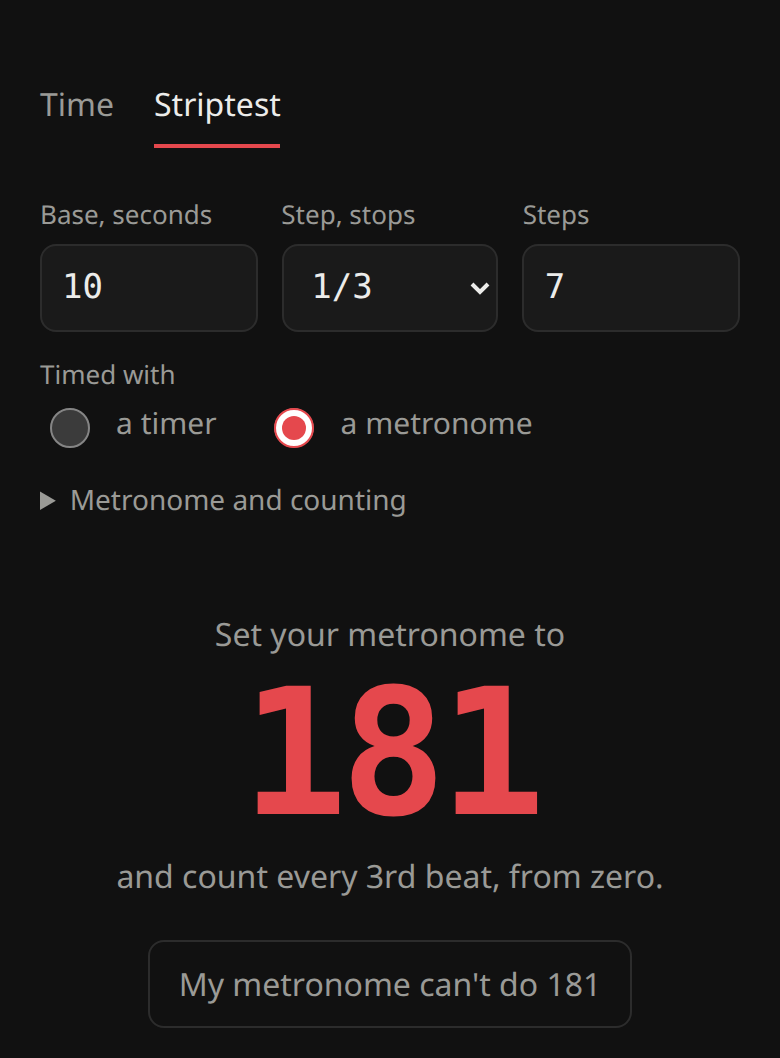
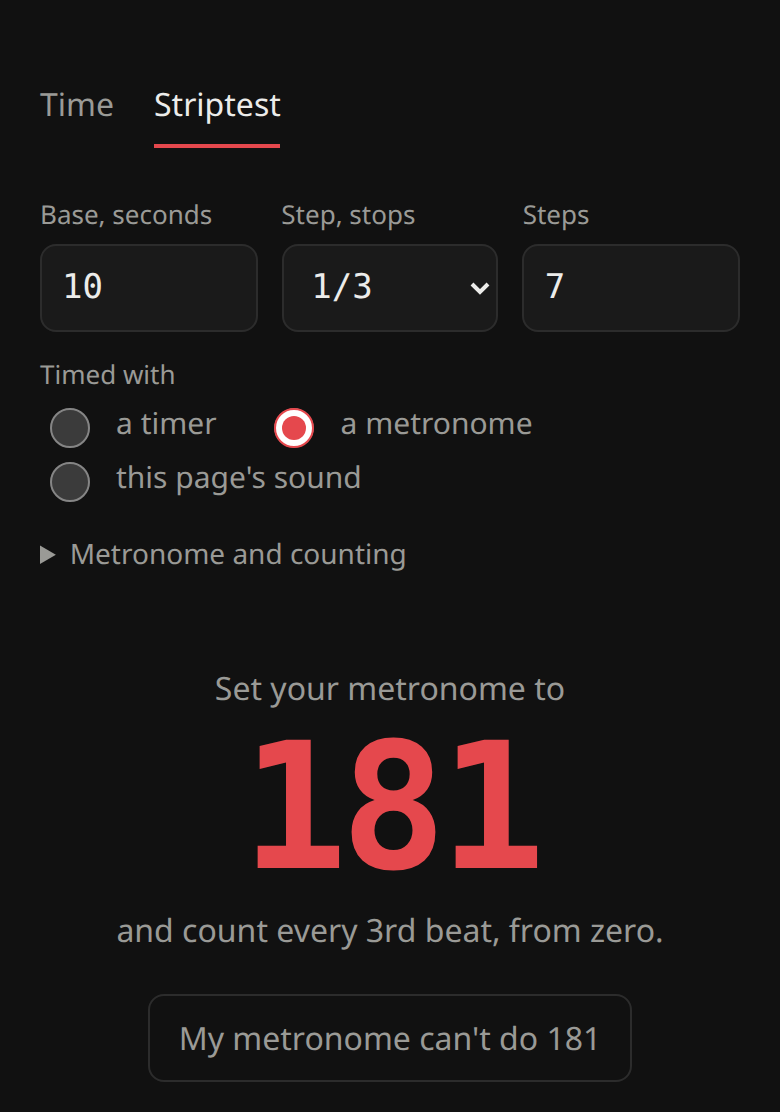
README for the new ways to time

diff --git a/README.md b/README.md
@@ -1,5 +1,5 @@
 # striptest
-A tool for planning f/stop teststrips in the darkroom, and for finding the optimal tempo settings for timing them with a physical metronome.
+A tool for planning f/stop teststrips in the darkroom, and for timing them: with an ordinary timer, with a physical metronome at the optimal tempo, or by the sound of the page itself.
 
 **Use it right here: https://binflush.github.io/striptest/**
 ## Overview
@@ -7,11 +7,11 @@ A tool for planning f/stop teststrips in the darkroom, and for finding the optim
 
 It started out as a Python script that I wrote for my own use, to be run on a laptop while planning a printing session. That works fine, but it is not very portable, and the computer I actually carry around is a phone. So the whole thing has been reimplemented as a website, which does the same calculation directly in your browser. There is nothing to install, it fits on a phone screen, and nothing you type is sent anywhere.
 
-The Python script is still here and still works. It is in fact the reference: the website is tested against it on thousands of random settings, so the two always agree on the tempo and the counts. The website has also grown a few things the script never had. It plans the teststrip no matter how it is going to be timed: with an ordinary timer it simply gives the seconds for every patch, and the metronome is what it suggests to those who don't have one. It also has an easy way to tell it which tempos your metronome lacks, and a simulated teststrip that shows roughly what the patches are going to do to the tones. All of it is described below.
+The Python script is still here and still works. It is in fact the reference: the website is tested against it on thousands of random settings, so the two always agree on the tempo and the counts. The website has also grown a few things the script never had. It plans the teststrip no matter how it is going to be timed: with an ordinary timer it simply gives the seconds for every patch, with a metronome it finds the tempo, and it can also do the timing itself, by sound, so that neither is needed. It has a darkroom view, which is red on black and large enough to read at the enlarger, an easy way to tell it which tempos your metronome lacks, and a simulated teststrip that shows roughly what the patches are going to do to the tones. Opened once while online it works in airplane mode after that, and it can be added to a phone's home screen like any other app. All of it is described below.
 
 ## Quickstart
 ### On the website
-Open https://binflush.github.io/striptest/, type in your base time, and pick the stepsize and the number of steps. The table then gives the seconds for every patch, to be used with a timer. Choose **a metronome** under **Timed with**, and you get a big red number instead, which is the tempo for your metronome, and a table that tells you what to count to. That is all there is to it. The section **The website** further down goes through the rest.
+Open https://binflush.github.io/striptest/, type in your base time, and pick the stepsize and the number of steps. The table then gives the seconds for every patch, to be used with a timer. Choose **a metronome** under **Timed with**, and you get a big red number instead, which is the tempo for your metronome, and a table that tells you what to count to. Choose **this page's sound** and it will simply sound every moment you have to act on. That is all there is to it. The section **The website** further down goes through the rest.
 
 ### With the Python script
 Ensure you have python and numpy installed, download the file `striptest.py`, open a terminal, navigate to where the file is located and run
@@ -72,7 +72,7 @@ Let's say we have a fresh negative in the enlarger, and our best guess is that i
 Until we say otherwise, the website takes the teststrip to be **Timed with** a timer. The table has one row for each patch. **Seconds** is the exposure the patch should end up with, and **Add** is how to get there when the patches are covered one by one: the whole strip first gets 5.0 seconds, then we cover the first patch and give the rest 1.3 seconds more, cover the next one and give the rest another 1.6, and so on. If we would rather expose every patch on its own, each simply gets what it says under **Seconds**. The times are rounded to tenths of a second, which is about what a timer can be set to.
 
 ### Without a timer
-With a timer that is all there is to it. Without one these times are hopeless, since nobody can count to 1.3 seconds, and this is where the metronome comes in. The line under the settings has already been hinting at it. Under **Timed with** we choose **a metronome**, which the website remembers until we choose something else:
+With a timer that is all there is to it. Without one these times are hopeless, since nobody can count to 1.3 seconds, and something has to keep time for us. There are two answers under **Timed with**: a metronome, which is what the rest of this walkthrough uses, or the page's own sound, which is further down under **At the enlarger**. The line under the settings has already been hinting at the first. We choose **a metronome**, which the website remembers until we choose something else:
 
 <p align="center"><img src="figures/web-first-strip.png" width="300" align="top" alt="The top of the website, now timed with a metronome: tempo 181, counting every 3rd beat"> <img src="figures/web-first-strip-table.png" width="300" align="top" alt="The table underneath: the count for each patch, with a strip of tones under every row"></p>
 
@@ -128,6 +128,17 @@ So we go up to filter 3, and expect the right exposure to be somewhat above 16 s
 We set the metronome to 194 and count every beat. The whole strip first gets 58 beats. Then we cover the first patch and give the rest 7 more beats, starting from zero again, then 8, 9 and 10. This is exactly what `python striptest.py -b 16 -n 5 -s 6 -p -1 -c -d 1` tells us to do.
 
 If the metronome has another range than 40 to 208 bpm, this is also the place to say so, under **Slowest, bpm** and **Fastest, bpm**.
+
+### At the enlarger
+Everything so far happens with the lights on. When they go out, the phone is the wrong shape entirely: a white page is a fog risk, the browser's bars are in the way, and the screen turns itself off halfway through a strip. The button under the table, **Darkroom view**, deals with all three. It fills the screen with the plan in large red type on black, asks the phone to stay awake, and shows nothing that can be tapped by mistake. Close, or Escape, brings the page back.
+
+Red only is safer than white, but it is not safe, and the website says so too. The screen is still a light source, and Multigrade paper is most sensitive to exactly the green and blue that a red-only screen leaves out — which is the point, but a bright phone held over the paper will still fog it. Turn the brightness right down, keep the phone away from the easel, and test your own phone before trusting it: leave a scrap of paper face up beside it for five minutes and develop that. It is also worth turning on airplane mode or Do Not Disturb first, because a notification lights the whole screen at full brightness, and that is a fogged sheet.
+
+The third choice under **Timed with**, **this page's sound**, is for when there is neither a timer nor a metronome to hand. The table then simply gives the seconds each patch ends up with, and the darkroom view offers a Start button. Pressing it gives a count-in of about four seconds, and after that a steady tone says the exposure is running. Under it a second tone climbs, and lands an octave higher exactly on each moment you have to act on, where a short accent falls: the first is the lamp on, then one for each patch to cover, and the last is the lamp off. Then silence, which is how you know it is over. Because the pitch is always climbing towards the next one, a mark never arrives unannounced, and it arrives just as decisively whether the gap was one second or ten.
+
+Stopping a run early needs a press and hold on the button, not a tap. A single touch does nothing at all, so that a hand feeling around in the dark cannot quietly end an exposure. If the phone rings, or anything else takes the page away mid-run, the sound stops and the view says so: that strip is spoiled, and better to know it.
+
+One last thing worth doing before a printing session: add the page to the home screen, from Share → Add to Home Screen on an iPhone, or the browser menu on Android. It then opens without the browser's bars, which on an iPhone is the only way to be rid of them, and it works with no network at all once it has been opened online once.
 
 ## The Python script
 
@@ -290,7 +301,9 @@ If the python script was responsible for timing during exposure, that would be a
 
 Software of this sorts would also need some way to reliably turn off any lights (screen, backlight keyboard, power switch, etc...) during exposure, which is a nontrivial task. Arduino-kits or commercial f-stop timers are better suited for this.
 
-The same goes for the website. It can plan a teststrip for a timer, but it purposely has neither a timer nor a metronome built in. If a timer is what you are after, something like [GoTimer's enlarger timer](https://gotimer.org/photography/enlarger-timer) is a better fit.
+The website has since gone at it from the other side. It can time a run itself, by sound, but that is not a metronome: there is no click track, no tempo, and nothing to count. It just sounds the moments you have to act on, and the pitch climbing into each one is what makes them easy to hit. It is a different answer to the same problem, for when there is neither a timer nor a metronome to hand.
+
+The tempo search is still what this whole thing is about, and it is still the only way to get an arbitrary interval out of a real metronome, which remains my own way of working. And if what you want is a proper f-stop timer, something like [GoTimer's enlarger timer](https://gotimer.org/photography/enlarger-timer) is still a better fit than either.
 
 * **Is this precision necessary**
 
